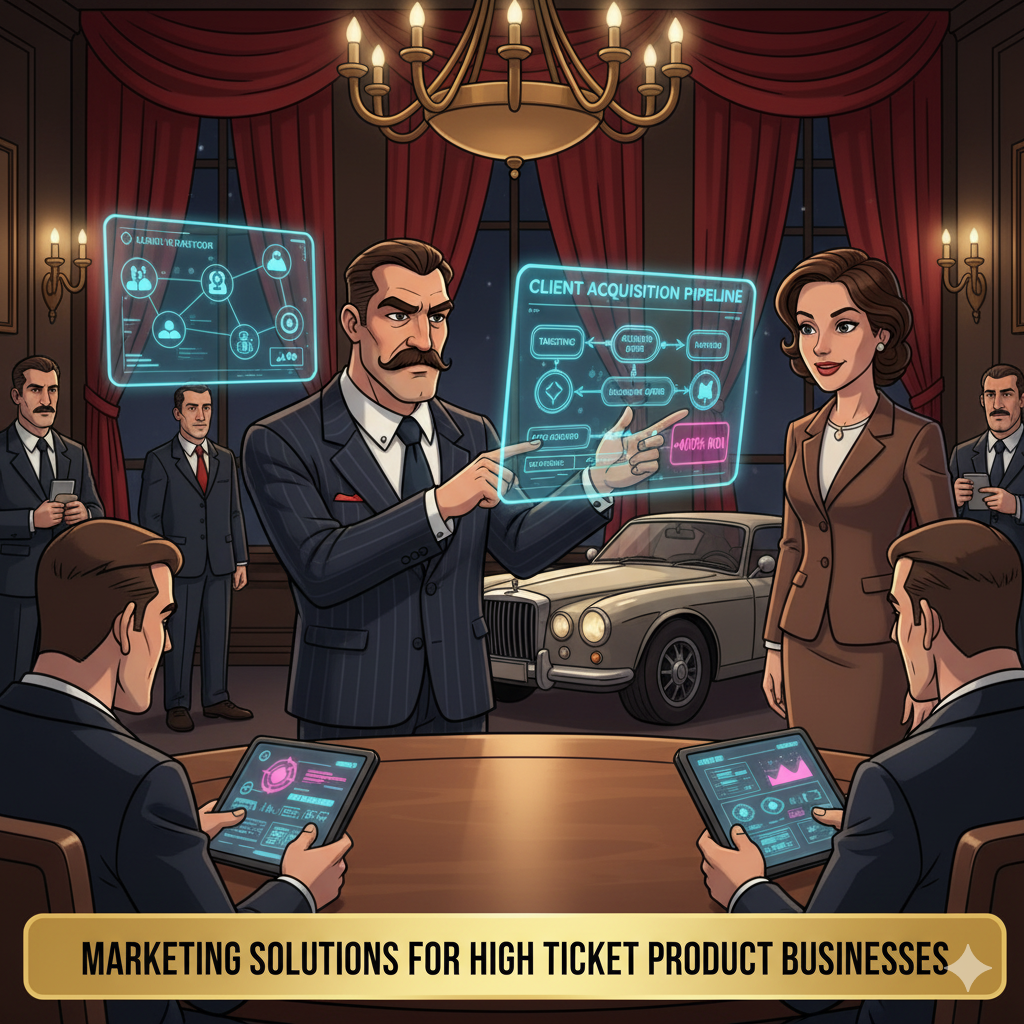
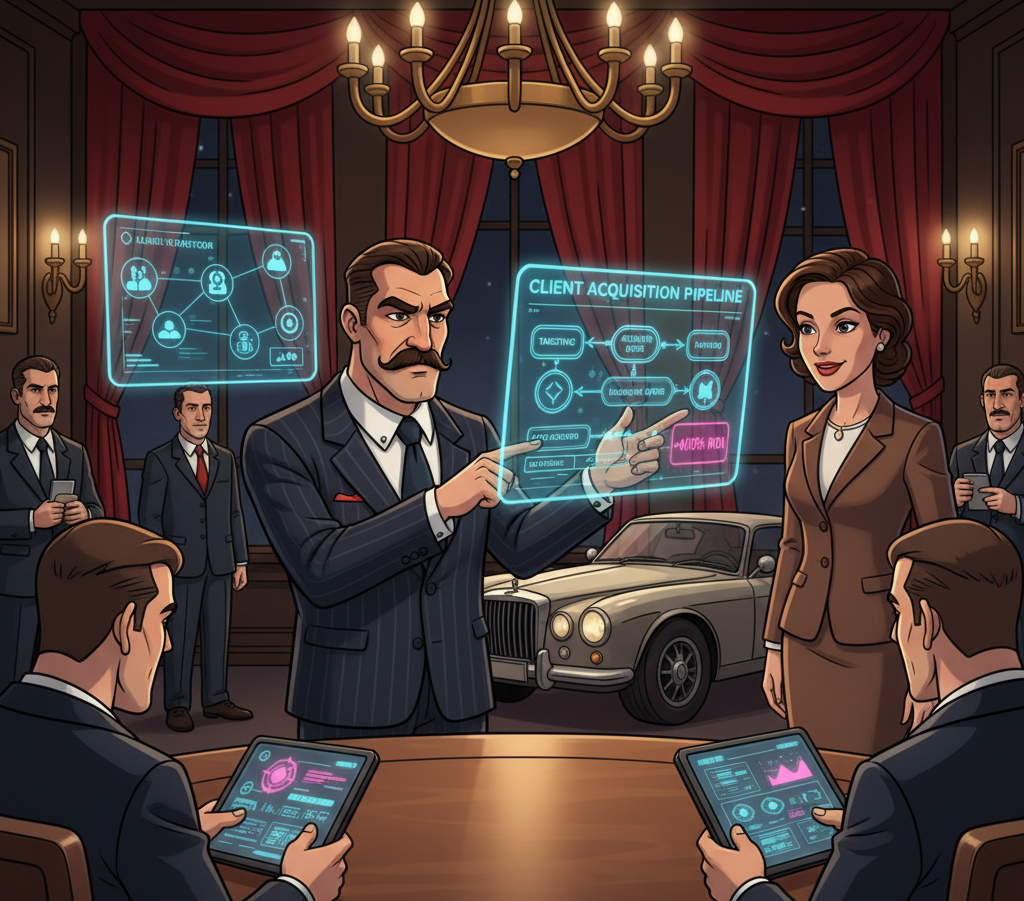
Crop captions and optimize featured image integration
Improvements to featured images for seamless content flow:

Image Processing:
- Cropped bottom 12% from all 12 featured images to remove captions
- Applied to: fractional-cmo, paid-advertising, marketing-strategy,
  funnel-optimization, content-marketing, coaches, consultants,
  course-creators, product-businesses, results, guarantee, apply

Layout Optimization:
- Removed centered flex container (flex justify-center)
- Reduced bottom margin from mb-12 to mb-8
- Images now flow naturally within content sections

Result: Featured images blend seamlessly with page content without
distracting caption banners or heavy centering. Verified with Playwright
across multiple pages.

🤖 Generated with [Claude Code](https://claude.com/claude-code)

diff --git a/app/services/marketing-strategy/page.tsx b/app/services/marketing-strategy/page.tsx
@@ -66,7 +66,7 @@ export default function MarketingStrategyPage() {
       <section className="py-12 sm:py-16 md:py-20 bg-gradient-to-br from-[#2a2a2a] to-[#1a1a1a] text-white">
         <div className="max-w-7xl mx-auto px-4 sm:px-6 lg:px-8">
           {/* Featured Image */}
-          <div className="mb-12 flex justify-center">
+          <div className="mb-8">
             <motion.div
               initial={{ opacity: 0, y: 20 }}
               whileInView={{ opacity: 1, y: 0 }}

diff --git a/app/services/fractional-cmo/page.tsx b/app/services/fractional-cmo/page.tsx
@@ -72,7 +72,7 @@ export default function FractionalCMOPage() {
       <section className="py-12 sm:py-16 md:py-20 bg-gradient-to-br from-gray-50 to-white">
         <div className="max-w-7xl mx-auto px-4 sm:px-6 lg:px-8">
           {/* Featured Image */}
-          <div className="mb-12 flex justify-center">
+          <div className="mb-8">
             <motion.div
               initial={{ opacity: 0, y: 20 }}
               whileInView={{ opacity: 1, y: 0 }}

diff --git a/app/apply/page.tsx b/app/apply/page.tsx
@@ -85,7 +85,7 @@ export default function ApplyPage() {
       <section className="py-16 bg-gradient-to-b from-[#1a1a2e] to-black">
         <div className="max-w-3xl mx-auto px-4 sm:px-6 lg:px-8">
           {/* Featured Image */}
-          <div className="mb-12 flex justify-center">
+          <div className="mb-8">
             <motion.div
               initial={{ opacity: 0, y: 20 }}
               whileInView={{ opacity: 1, y: 0 }}

diff --git a/app/services/funnel-optimization/page.tsx b/app/services/funnel-optimization/page.tsx
@@ -66,7 +66,7 @@ export default function FunnelOptimizationPage() {
       <section className="py-12 sm:py-16 md:py-20 bg-white">
         <div className="max-w-7xl mx-auto px-4 sm:px-6 lg:px-8">
           {/* Featured Image */}
-          <div className="mb-12 flex justify-center">
+          <div className="mb-8">
             <motion.div
               initial={{ opacity: 0, y: 20 }}
               whileInView={{ opacity: 1, y: 0 }}

diff --git a/app/industries/product-businesses/page.tsx b/app/industries/product-businesses/page.tsx
@@ -38,7 +38,7 @@ export default function ProductBusinessesPage() {
       <section className="py-12 sm:py-16 md:py-20 bg-white">
         <div className="max-w-7xl mx-auto px-4 sm:px-6 lg:px-8">
           {/* Featured Image */}
-          <div className="mb-12 flex justify-center">
+          <div className="mb-8">
             <motion.div
               initial={{ opacity: 0, y: 20 }}
               whileInView={{ opacity: 1, y: 0 }}

diff --git a/app/services/content-marketing/page.tsx b/app/services/content-marketing/page.tsx
@@ -66,7 +66,7 @@ export default function ContentMarketingPage() {
       <section className="py-12 sm:py-16 md:py-20 bg-white">
         <div className="max-w-7xl mx-auto px-4 sm:px-6 lg:px-8">
           {/* Featured Image */}
-          <div className="mb-12 flex justify-center">
+          <div className="mb-8">
             <motion.div
               initial={{ opacity: 0, y: 20 }}
               whileInView={{ opacity: 1, y: 0 }}

diff --git a/app/services/paid-advertising/page.tsx b/app/services/paid-advertising/page.tsx
@@ -66,7 +66,7 @@ export default function PaidAdvertisingPage() {
       <section className="py-12 sm:py-16 md:py-20 bg-white">
         <div className="max-w-7xl mx-auto px-4 sm:px-6 lg:px-8">
           {/* Featured Image */}
-          <div className="mb-12 flex justify-center">
+          <div className="mb-8">
             <motion.div
               initial={{ opacity: 0, y: 20 }}
               whileInView={{ opacity: 1, y: 0 }}

diff --git a/app/industries/course-creators/page.tsx b/app/industries/course-creators/page.tsx
@@ -38,7 +38,7 @@ export default function CourseCreatorsPage() {
       <section className="py-12 sm:py-16 md:py-20 bg-white">
         <div className="max-w-7xl mx-auto px-4 sm:px-6 lg:px-8">
           {/* Featured Image */}
-          <div className="mb-12 flex justify-center">
+          <div className="mb-8">
             <motion.div
               initial={{ opacity: 0, y: 20 }}
               whileInView={{ opacity: 1, y: 0 }}

diff --git a/app/industries/consultants/page.tsx b/app/industries/consultants/page.tsx
@@ -72,7 +72,7 @@ export default function ConsultantsPage() {
       <section className="py-12 sm:py-16 md:py-20 bg-white">
         <div className="max-w-7xl mx-auto px-4 sm:px-6 lg:px-8">
           {/* Featured Image */}
-          <div className="mb-12 flex justify-center">
+          <div className="mb-8">
             <motion.div
               initial={{ opacity: 0, y: 20 }}
               whileInView={{ opacity: 1, y: 0 }}

diff --git a/app/guarantee/page.tsx b/app/guarantee/page.tsx
@@ -61,7 +61,7 @@ export default function GuaranteePage() {
       <section className="py-12 sm:py-16 md:py-20 bg-white">
         <div className="max-w-4xl mx-auto px-4 sm:px-6 lg:px-8">
           {/* Featured Image */}
-          <div className="mb-12 flex justify-center">
+          <div className="mb-8">
             <motion.div
               initial={{ opacity: 0, y: 20 }}
               whileInView={{ opacity: 1, y: 0 }}

diff --git a/app/industries/coaches/page.tsx b/app/industries/coaches/page.tsx
@@ -75,7 +75,7 @@ export default function CoachesPage() {
       <section className="py-12 sm:py-16 md:py-20 bg-white">
         <div className="max-w-7xl mx-auto px-4 sm:px-6 lg:px-8">
           {/* Featured Image */}
-          <div className="mb-12 flex justify-center">
+          <div className="mb-8">
             <motion.div
               initial={{ opacity: 0, y: 20 }}
               whileInView={{ opacity: 1, y: 0 }}

diff --git a/app/results/page.tsx b/app/results/page.tsx
@@ -188,7 +188,7 @@ export default function ResultsPage() {
       <section className="py-16 bg-white">
         <div className="max-w-7xl mx-auto px-4 sm:px-6 lg:px-8">
           {/* Featured Image */}
-          <div className="mb-12 flex justify-center">
+          <div className="mb-8">
             <div className="w-full max-w-4xl">
               <img
                 src="/featured/results-featured.png"
